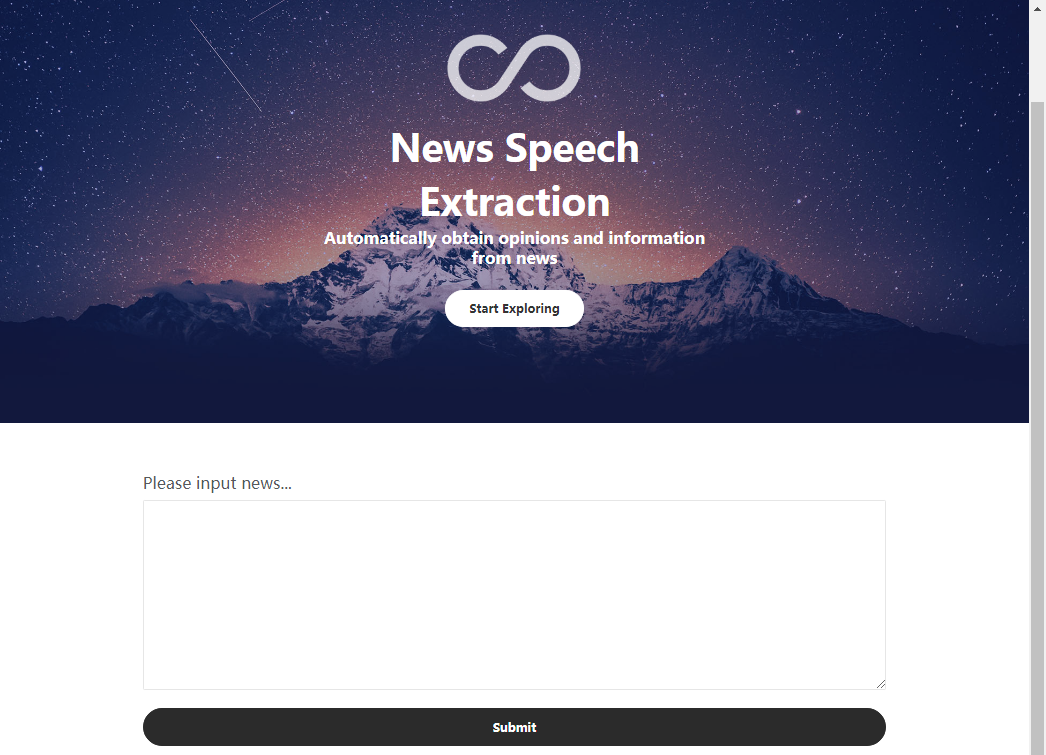
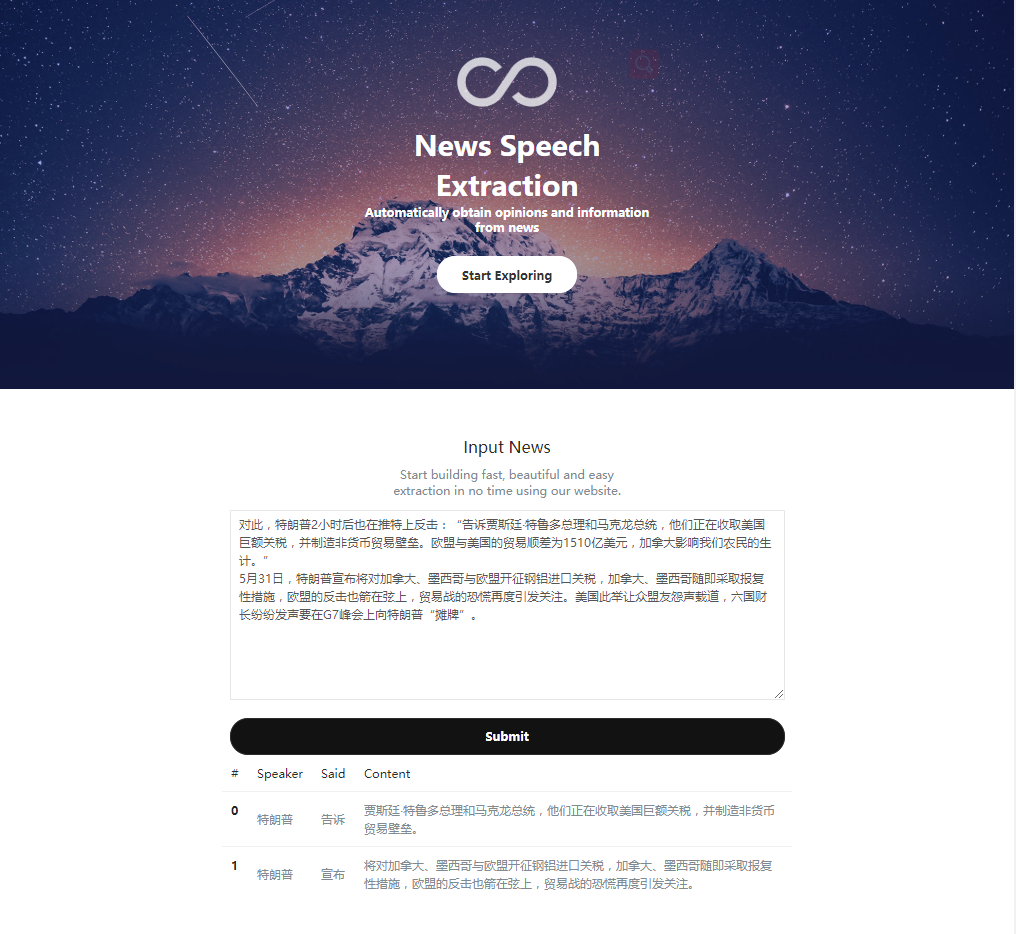
update readme

diff --git a/README.md b/README.md
@@ -67,12 +67,18 @@ app.py：启动程序
 ### Web部署
 
 1. Flask + Boostrap + Html 搭建 web server
+2. nginx 反向代理 、后台运行 nohup python -u app.py > gunicorn.log 2>&1 &
 
 ### 测试
 
-![image](https://github.com/MingDuoLin/News-speech-extraction/blob/master/static/images/AutoExtraction.png)
+**测试用例**：
 
-![image](https://github.com/MingDuoLin/News-speech-extraction/blob/master/static/images/result.png)
+```
+对此，特朗普2小时后也在推特上反击：“告诉贾斯廷⋅特鲁多总理和马克龙总统，他们正在收取美国巨额关税，并制造非货币贸易壁垒。欧盟与美国的贸易顺差为1510亿美元，加拿大影响我们农民的生计。”
+5月31日，特朗普宣布将对加拿大、墨西哥与欧盟开征钢铝进口关税，加拿大、墨西哥随即采取报复性措施，欧盟的反击也箭在弦上，贸易战的恐慌再度引发关注。美国此举让众盟友怨声载道，六国财长纷纷发声要在G7峰会上向特朗普“摊牌”。
+```
+
+![image](https://github.com/MingDuoLin/News-speech-extraction/blob/master/static/images/AutoExtraction.png)
 
 ### 测试与问题
 
